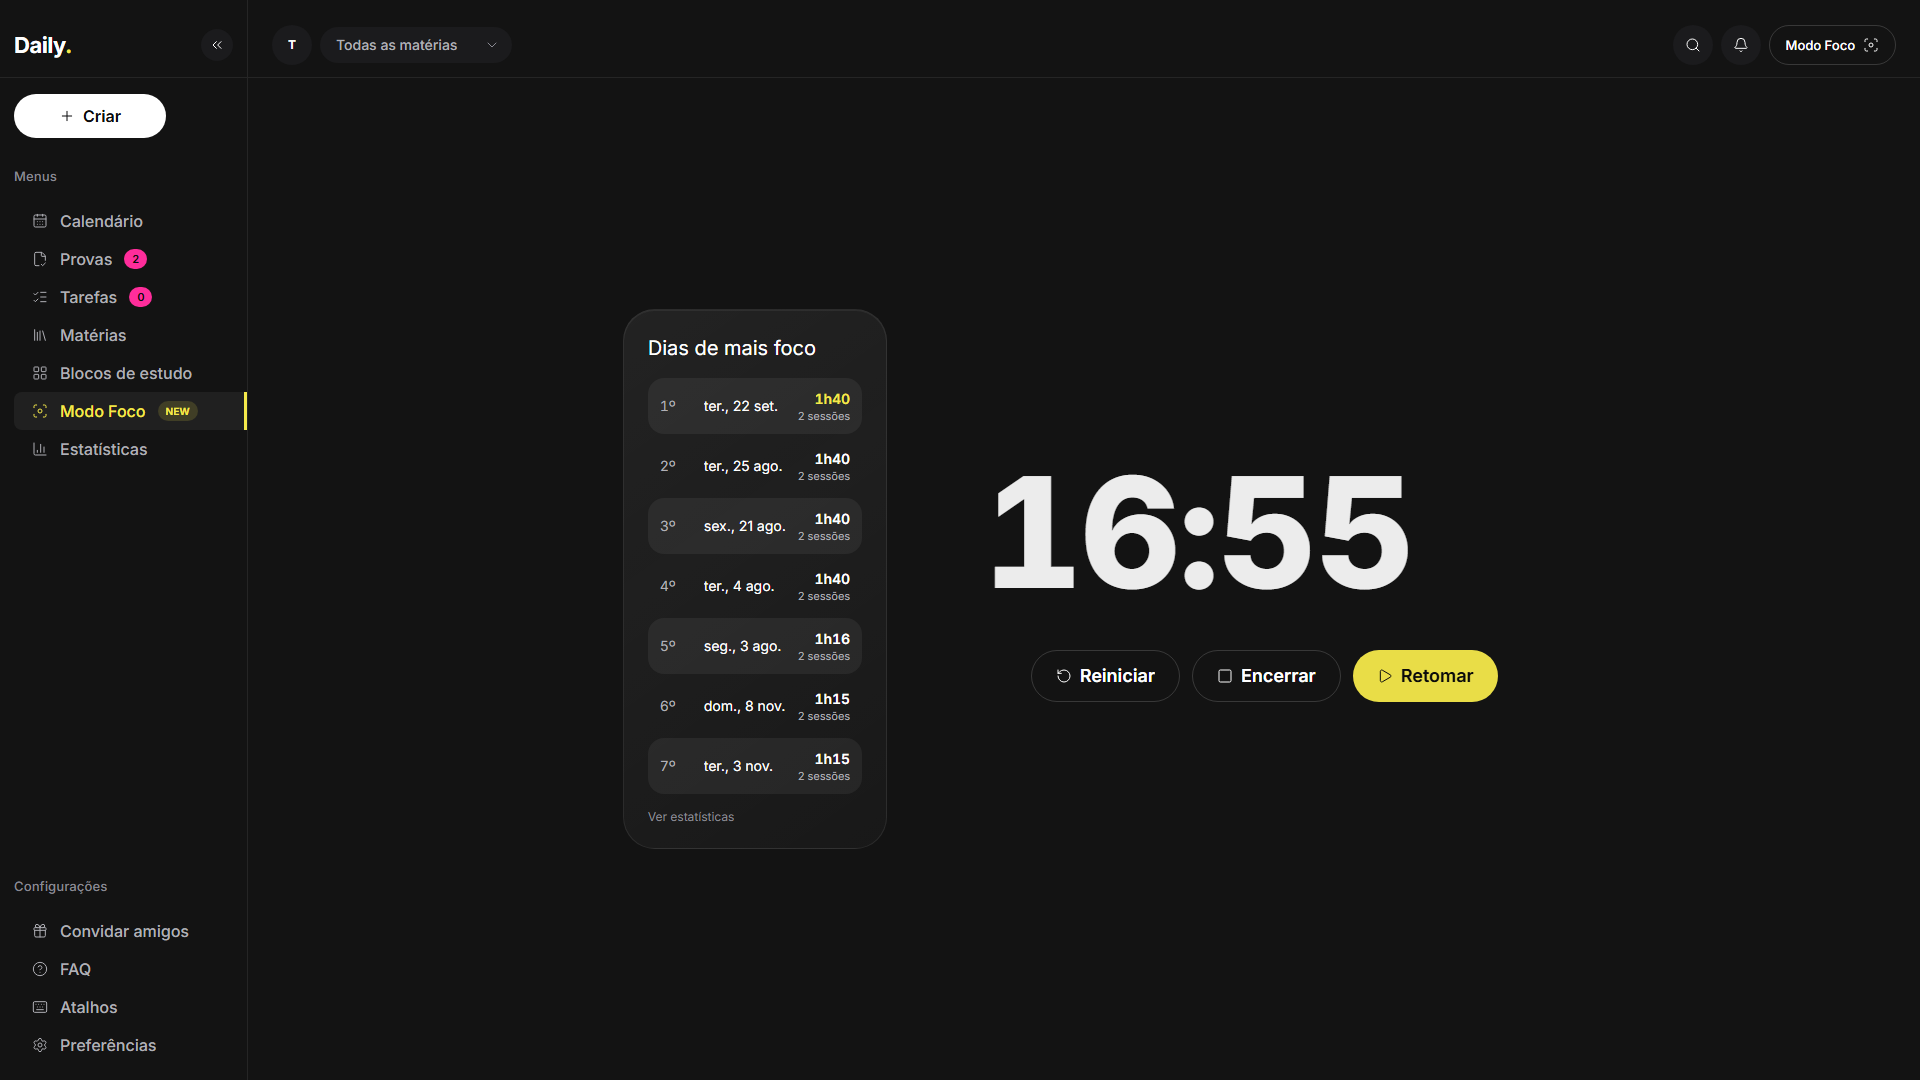
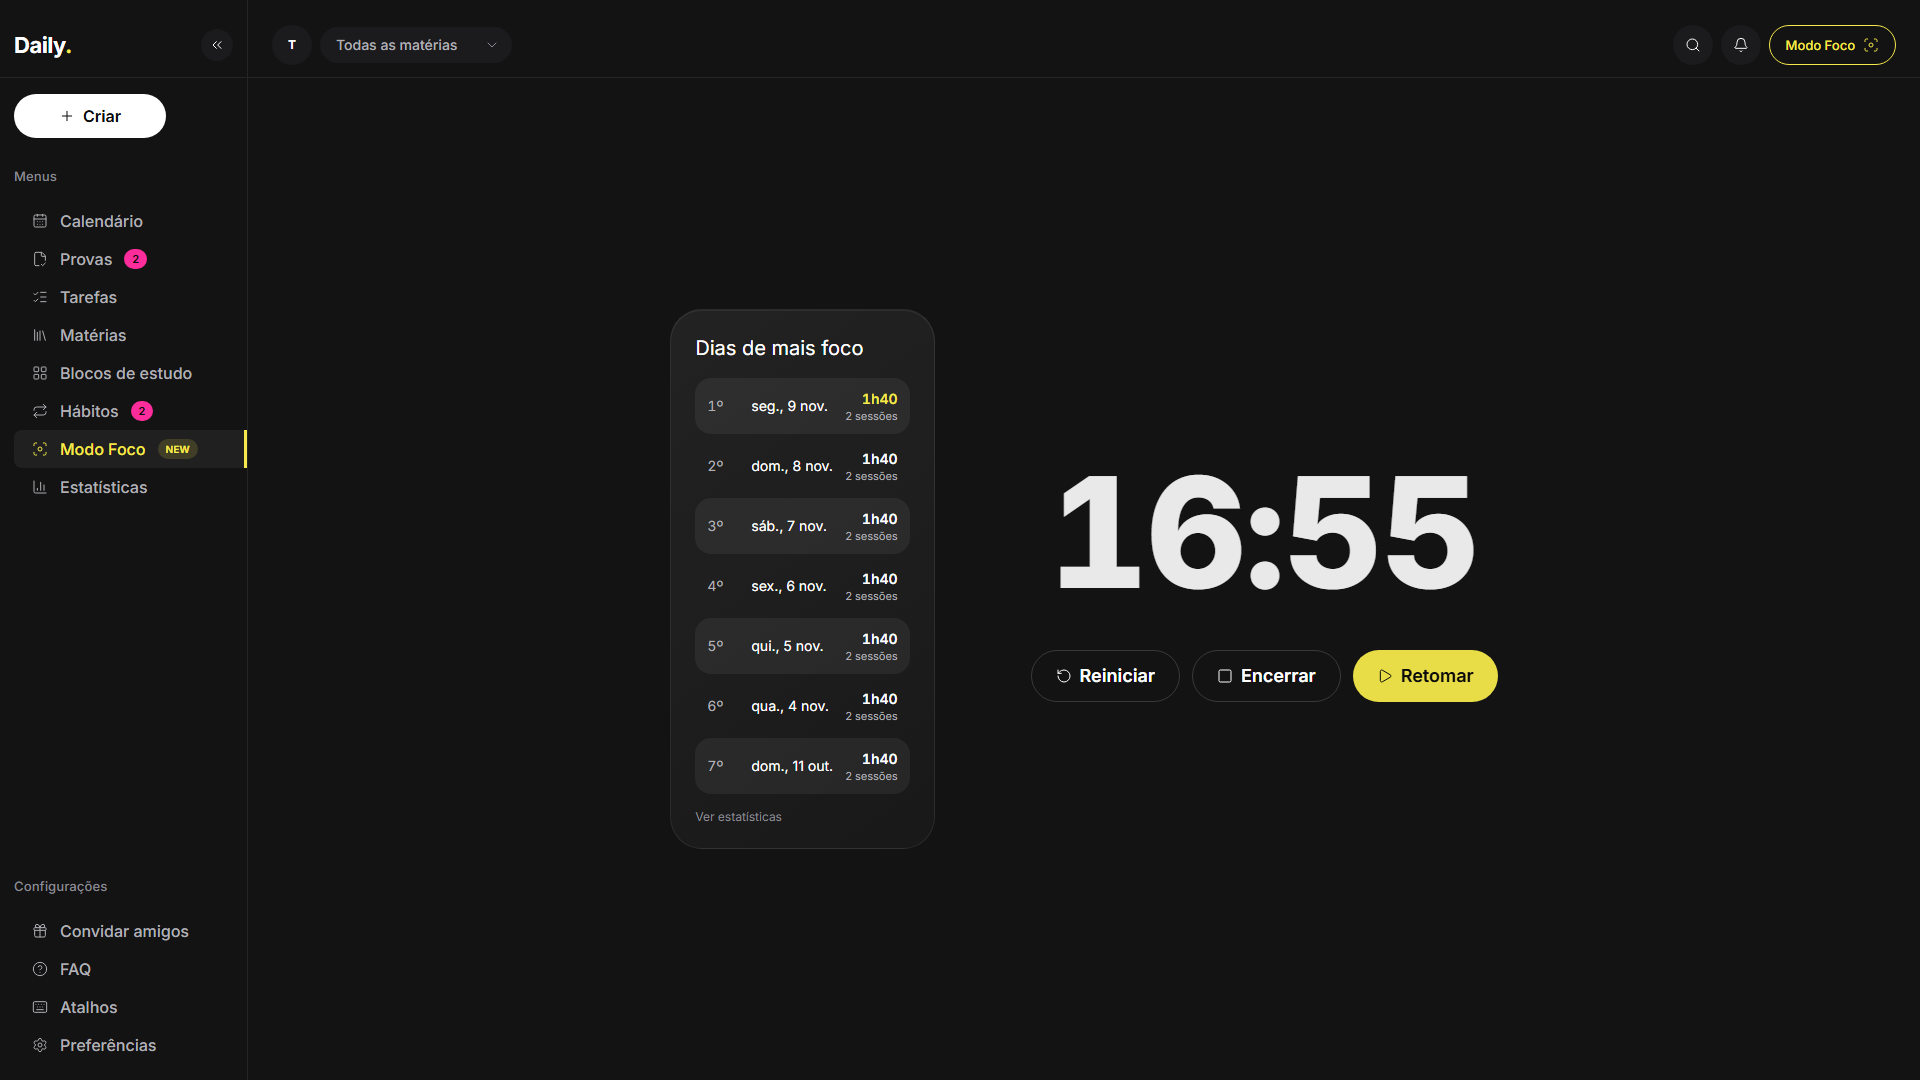
feat(focus): fraction beside the digits without shifting them; active Modo Foco button; habit e2e and captures

diff --git a/apps/web/e2e/habits.spec.ts b/apps/web/e2e/habits.spec.ts
@@ -1,0 +1,172 @@
+import { expect, test, type Page } from '@playwright/test';
+
+/** Quarta-feira: dia agendado da “Musculação” (seg, qua e sex). */
+const NOW = new Date('2026-11-11T10:30:00');
+
+const habitCard = (page: Page, name: string) => page.getByRole('region', { name, exact: true });
+const cell = (page: Page, name: string, date: string) =>
+  habitCard(page, name).locator(`[data-date="${date}"]`);
+
+/** Cria a “Musculação” (seg, qua e sex) com início em 01/11/2026, pelo formulário. */
+async function createGym(page: Page) {
+  await page.getByRole('button', { name: 'Novo hábito' }).first().click();
+  const dialog = page.getByRole('dialog', { name: 'Novo hábito' });
+  await dialog.getByLabel('Nome').fill('Musculação');
+  await dialog.getByLabel('Repetição').selectOption('dias');
+  for (const day of ['dom', 'ter', 'qui', 'sáb']) {
+    await dialog.getByRole('button', { name: day, exact: true }).click();
+  }
+  await dialog.getByLabel('Início', { exact: true }).fill('2026-11-01');
+  await dialog.getByRole('button', { name: 'Criar hábito' }).click();
+  await expect(dialog).toHaveCount(0);
+}
+
+const stat = (page: Page, name: string, label: string) =>
+  habitCard(page, name)
+    .locator('div', { has: page.getByText(label, { exact: true }) })
+    .locator('dd')
+    .first();
+
+test.describe('Hábitos', () => {
+  test.beforeEach(async ({ page }) => {
+    await page.clock.install({ time: NOW });
+  });
+
+  test('criar “Musculação” (seg, qua e sex): cartão, resumo e heatmap', async ({ page }) => {
+    await page.goto('/habitos');
+    await expect(page.getByText('Nenhum hábito ainda')).toBeVisible();
+    await createGym(page);
+
+    const card = habitCard(page, 'Musculação');
+    await expect(card).toBeVisible();
+    await expect(card).toContainText('Seg, qua e sex');
+    const grid = card.getByRole('grid', { name: 'Calendário de Musculação' });
+    await expect(grid).toBeVisible();
+    // Segunda 09/11 estava agendada e não foi feita; terça 10/11 não era agendada.
+    await expect(cell(page, 'Musculação', '2026-11-09')).toHaveAttribute('aria-label', /não feito/);
+    await expect(cell(page, 'Musculação', '2026-11-10')).toHaveAttribute(
+      'aria-label',
+      /não agendado/,
+    );
+    await expect(cell(page, 'Musculação', '2026-11-11')).toHaveAttribute('aria-label', /pendente/);
+    await expect(page.getByRole('link', { name: /Hábitos/ })).toContainText('1'); // pendente hoje
+  });
+
+  test('marcar hoje, corrigir um dia passado e recarregar: sequência e taxa mudam e persistem', async ({
+    page,
+  }) => {
+    await page.goto('/habitos');
+    await createGym(page);
+    await expect(stat(page, 'Musculação', 'Sequência')).toHaveText('0 dias');
+
+    // Hoje (quarta): feito → 1 dia; taxa = 1 de 5 dias agendados (2, 4, 6, 9 e hoje).
+    await page.getByRole('checkbox', { name: 'Musculação: feito hoje' }).click();
+    await expect(stat(page, 'Musculação', 'Sequência')).toHaveText('1 dia');
+    await expect(stat(page, 'Musculação', 'Taxa (90 dias)')).toHaveText('20%');
+
+    // Corrige a segunda 09/11 pelo heatmap: a terça não agendada não quebra → sequência de 2.
+    await cell(page, 'Musculação', '2026-11-09').click();
+    await page.getByRole('button', { name: 'Marcar como feito' }).click();
+    await expect(cell(page, 'Musculação', '2026-11-09')).toHaveAttribute('aria-label', /: feito/);
+    await expect(stat(page, 'Musculação', 'Sequência')).toHaveText('2 dias');
+    await expect(stat(page, 'Musculação', 'Taxa (90 dias)')).toHaveText('40%');
+
+    await page.reload();
+    await expect(stat(page, 'Musculação', 'Sequência')).toHaveText('2 dias');
+    await expect(stat(page, 'Musculação', 'Melhor')).toHaveText('2 dias');
+    await expect(page.getByRole('checkbox', { name: 'Musculação: feito hoje' })).toHaveAttribute(
+      'aria-checked',
+      'true',
+    );
+  });
+
+  test('o heatmap dos últimos 12 meses não mostra dias futuros', async ({ page }) => {
+    await page.goto('/habitos');
+    await createGym(page);
+    await expect(cell(page, 'Musculação', '2026-11-13')).toHaveCount(0);
+  });
+
+  test('Hidratação reflete o copo de água adicionado em Estatísticas', async ({ page }) => {
+    await page.goto('/habitos');
+    await page.getByRole('button', { name: 'Hidratação' }).click();
+    const card = habitCard(page, 'Hidratação');
+    await expect(card).toContainText('Automático: água do dia');
+    await expect(cell(page, 'Hidratação', '2026-11-11')).toHaveAttribute('aria-label', /pendente/);
+
+    await page.goto('/estatisticas');
+    await page.getByRole('button', { name: /^Adicionar um copo/ }).click();
+
+    await page.goto('/habitos');
+    await expect(cell(page, 'Hidratação', '2026-11-11')).toHaveAttribute(
+      'aria-label',
+      /250 ml de 2000 ml/,
+    );
+    // Em Estatísticas o hábito aparece em “Hábitos de hoje”.
+    await page.goto('/estatisticas');
+    await expect(page.getByRole('heading', { name: 'Hábitos de hoje' })).toBeVisible();
+    await expect(page.getByText('Hidratação').first()).toBeVisible();
+  });
+
+  test('metas salvas no formato v2 viram hábitos, sem perder registros', async ({ page }) => {
+    await page.addInitScript(() => {
+      if (localStorage.getItem('daily:v3')) return;
+      const goal = (id: string, title: string, kind: string, order: number) => ({
+        id,
+        title,
+        icon: 'moon',
+        kind,
+        order,
+        createdAt: '2026-10-01T08:00:00',
+        archivedAt: null,
+      });
+      localStorage.setItem(
+        'daily:v2',
+        JSON.stringify({
+          app: 'daily',
+          version: 2,
+          savedAt: '2026-11-10T00:00:00.000Z',
+          data: {
+            subjects: [],
+            events: [],
+            preferences: {
+              name: '',
+              waterGoalMl: 2000,
+              cupMl: 250,
+              focusDurationSec: 1500,
+              lockByDefault: false,
+            },
+            goals: [goal('g1', 'Dormir 7h', 'manual', 0), goal('g2', 'Beber água', 'auto-agua', 1)],
+            goalLogs: [{ id: 'g1:2026-11-09', goalId: 'g1', date: '2026-11-09', done: true }],
+            waterLogs: [],
+            focusSessions: [],
+          },
+        }),
+      );
+    });
+    await page.goto('/habitos');
+    await expect(habitCard(page, 'Dormir 7h')).toBeVisible();
+    await expect(habitCard(page, 'Beber água')).toContainText('Automático: água do dia');
+    await expect(cell(page, 'Dormir 7h', '2026-11-09')).toHaveAttribute('aria-label', /: feito/);
+
+    const keys = await page.evaluate(() => ({
+      v3: localStorage.getItem('daily:v3') !== null,
+      backup: localStorage.getItem('daily:v2:pre-v3') !== null,
+    }));
+    expect(keys).toEqual({ v3: true, backup: true });
+  });
+
+  test('o heatmap se navega pelo teclado: setas movem entre dias e Enter abre o dia', async ({
+    page,
+  }) => {
+    await page.goto('/habitos');
+    await createGym(page);
+    const today = cell(page, 'Musculação', '2026-11-11');
+    await today.focus();
+    await page.keyboard.press('ArrowUp'); // dia anterior (terça)
+    await expect(cell(page, 'Musculação', '2026-11-10')).toBeFocused();
+    await page.keyboard.press('ArrowLeft'); // uma semana antes (03/11)
+    await expect(cell(page, 'Musculação', '2026-11-03')).toBeFocused();
+    await page.keyboard.press('Enter');
+    await expect(page.getByRole('dialog', { name: /Musculação, / })).toBeVisible();
+  });
+});

diff --git a/apps/web/src/components/layout/Topbar.tsx b/apps/web/src/components/layout/Topbar.tsx
@@ -1,5 +1,6 @@
 import { Bell, Focus, Search } from 'lucide-react';
-import { useNavigate } from 'react-router-dom';
+import { useLocation, useNavigate } from 'react-router-dom';
+import { cn } from '../../lib/cn';
 import { Button } from '../ui/Button';
 import { SubjectSelect } from './SubjectSelect';
 
@@ -10,6 +11,7 @@ interface TopbarProps {
 
 export function Topbar({ subjectId, onSubjectChange }: TopbarProps) {
   const navigate = useNavigate();
+  const onFocusPage = useLocation().pathname === '/foco';
   return (
     <header className="flex h-topbar shrink-0 items-center pt-3 justify-between border-b-hair px-page">
       <SubjectSelect value={subjectId} onChange={onSubjectChange} />
@@ -20,7 +22,12 @@ export function Topbar({ subjectId, onSubjectChange }: TopbarProps) {
         <Button variant="icon" aria-label="Notificações">
           <Bell aria-hidden strokeWidth={1.5} className="size-icon" />
         </Button>
-        <Button variant="outline" onClick={() => navigate('/foco')}>
+        <Button
+          variant="outline"
+          aria-current={onFocusPage ? 'page' : undefined}
+          className={cn(onFocusPage && 'border-accent! text-accent!')}
+          onClick={() => navigate('/foco')}
+        >
           Modo Foco
           <Focus aria-hidden strokeWidth={1.5} className="size-icon" />
         </Button>

diff --git a/apps/web/src/features/focus/FocusDigits.tsx b/apps/web/src/features/focus/FocusDigits.tsx
@@ -7,7 +7,7 @@ import { restanteMs } from '../../lib/focus/session';
 interface DigitsProps {
   text: string;
   label: string;
-  /** Milésimos ao lado dos dígitos (só enquanto roda); o espaço é sempre reservado. */
+  /** Milésimos ao lado dos dígitos (só enquanto roda); posição absoluta ao lado, sem deslocar os dígitos. */
   fraction?: string;
   blink?: boolean;
 }
@@ -15,7 +15,7 @@ interface DigitsProps {
 /** Dígitos grandes (somente leitura) com a fração em cinza no baseline. */
 export function Digits({ text, label, fraction, blink }: DigitsProps) {
   return (
-    <div className="flex items-baseline justify-center gap-2">
+    <div className="flex items-baseline justify-center">
       <span
         role="timer"
         aria-label={label}
@@ -28,7 +28,7 @@ export function Digits({ text, label, fraction, blink }: DigitsProps) {
       </span>
       <span
         aria-hidden
-        className="inline-block min-w-focus-frac text-left text-focus-frac font-medium tabular-nums text-frac"
+        className="relative left-2 inline-block w-0 overflow-visible text-left text-focus-frac font-medium whitespace-nowrap tabular-nums text-frac"
       >
         {fraction}
       </span>

diff --git a/apps/web/src/features/focus/FocusPage.tsx b/apps/web/src/features/focus/FocusPage.tsx
@@ -143,14 +143,11 @@ export function FocusPage() {
             </>
           ) : (
             <>
-              <div className="flex items-baseline justify-center gap-2">
-                <DurationInput
-                  seconds={seconds}
-                  onCommit={commitSeconds}
-                  onNotice={setAnnouncement}
-                />
-                <span aria-hidden className="inline-block min-w-focus-frac" />
-              </div>
+              <DurationInput
+                seconds={seconds}
+                onCommit={commitSeconds}
+                onNotice={setAnnouncement}
+              />
               <div className="flex flex-wrap items-center justify-center gap-3">
                 <FocusPill
                   aria-pressed={lockChoice}

diff --git a/apps/web/src/styles/index.css b/apps/web/src/styles/index.css
@@ -177,7 +177,6 @@
   --spacing-focus-row: var(--ds-focus-row-h);
   --spacing-focus-pill: var(--ds-focus-pill-h);
   --spacing-focus-pill-px: var(--ds-focus-pill-px);
-  --spacing-focus-frac: var(--ds-focus-frac-w);
   --spacing-focus-hold: var(--ds-focus-hold-size);
   --spacing-focus-hold-ring: var(--ds-focus-hold-ring);
   --radius-focus-row: var(--ds-focus-row-radius);

diff --git a/apps/web/src/styles/tokens.css b/apps/web/src/styles/tokens.css
@@ -274,7 +274,6 @@
   --ds-focus-row-radius: 1rem;
   --ds-focus-pill-h: 3.25rem;
   --ds-focus-pill-px: 1.5rem;
-  --ds-focus-frac-w: 4ch;
   --ds-focus-hold-size: 1.75rem;
   --ds-focus-hold-ring: 0.1875rem;
 }

diff --git a/docs/design/design-system.md b/docs/design/design-system.md
@@ -346,7 +346,7 @@ O **anel foi removido**. A composição (adaptada de uma referência de cronôme
 | -------------------- | -------------------------------------------- | -------------------------------------------------------------------------------------- | ----------------------------------------------------------------- |
 | Tempo                | 72 px, peso 300, dentro de um anel de 22 rem | `clamp(5,5 rem, 8 vw, 10 rem)` (≈ 154 px em 1920, ≈ 102 px em 1280), peso 800, tabular | `--ds-text-focus`, `--ds-weight-extrabold`                        |
 | Fração (milésimos)   | —                                            | `clamp(1,5 rem, 2,6 vw, 3 rem)`, peso 500, `fg-muted`, no baseline; só rodando         | `--ds-text-focus-frac`, `--ds-color-focus-frac`                   |
-| Espaço da fração     | —                                            | sempre reservado (4 ch) para os dígitos não se mexerem                                 | `--ds-focus-frac-w`                                               |
+| Posição da fração    | —                                            | largura zero, ao lado dos dígitos (não os desloca; ficam centralizados com as pílulas) | —                                                                 |
 | Anel / alça          | anel de 22 rem, traço de 5 px                | **removido**                                                                           | (tokens `--ds-timer-*` e `--ds-color-timer-*` removidos)          |
 | Botões               | ícones dentro do anel                        | **pílulas** de 52 px com ícone + rótulo (amarela = principal; contorno = secundária)   | `--ds-focus-pill-h`, `--ds-focus-pill-px`                         |
 | Painel               | —                                            | cartão glass de 320 px; linhas de 56 px com raio de 16 px, alternadas com `hover`      | `--ds-focus-panel-w`, `--ds-focus-row-h`, `--ds-focus-row-radius` |
